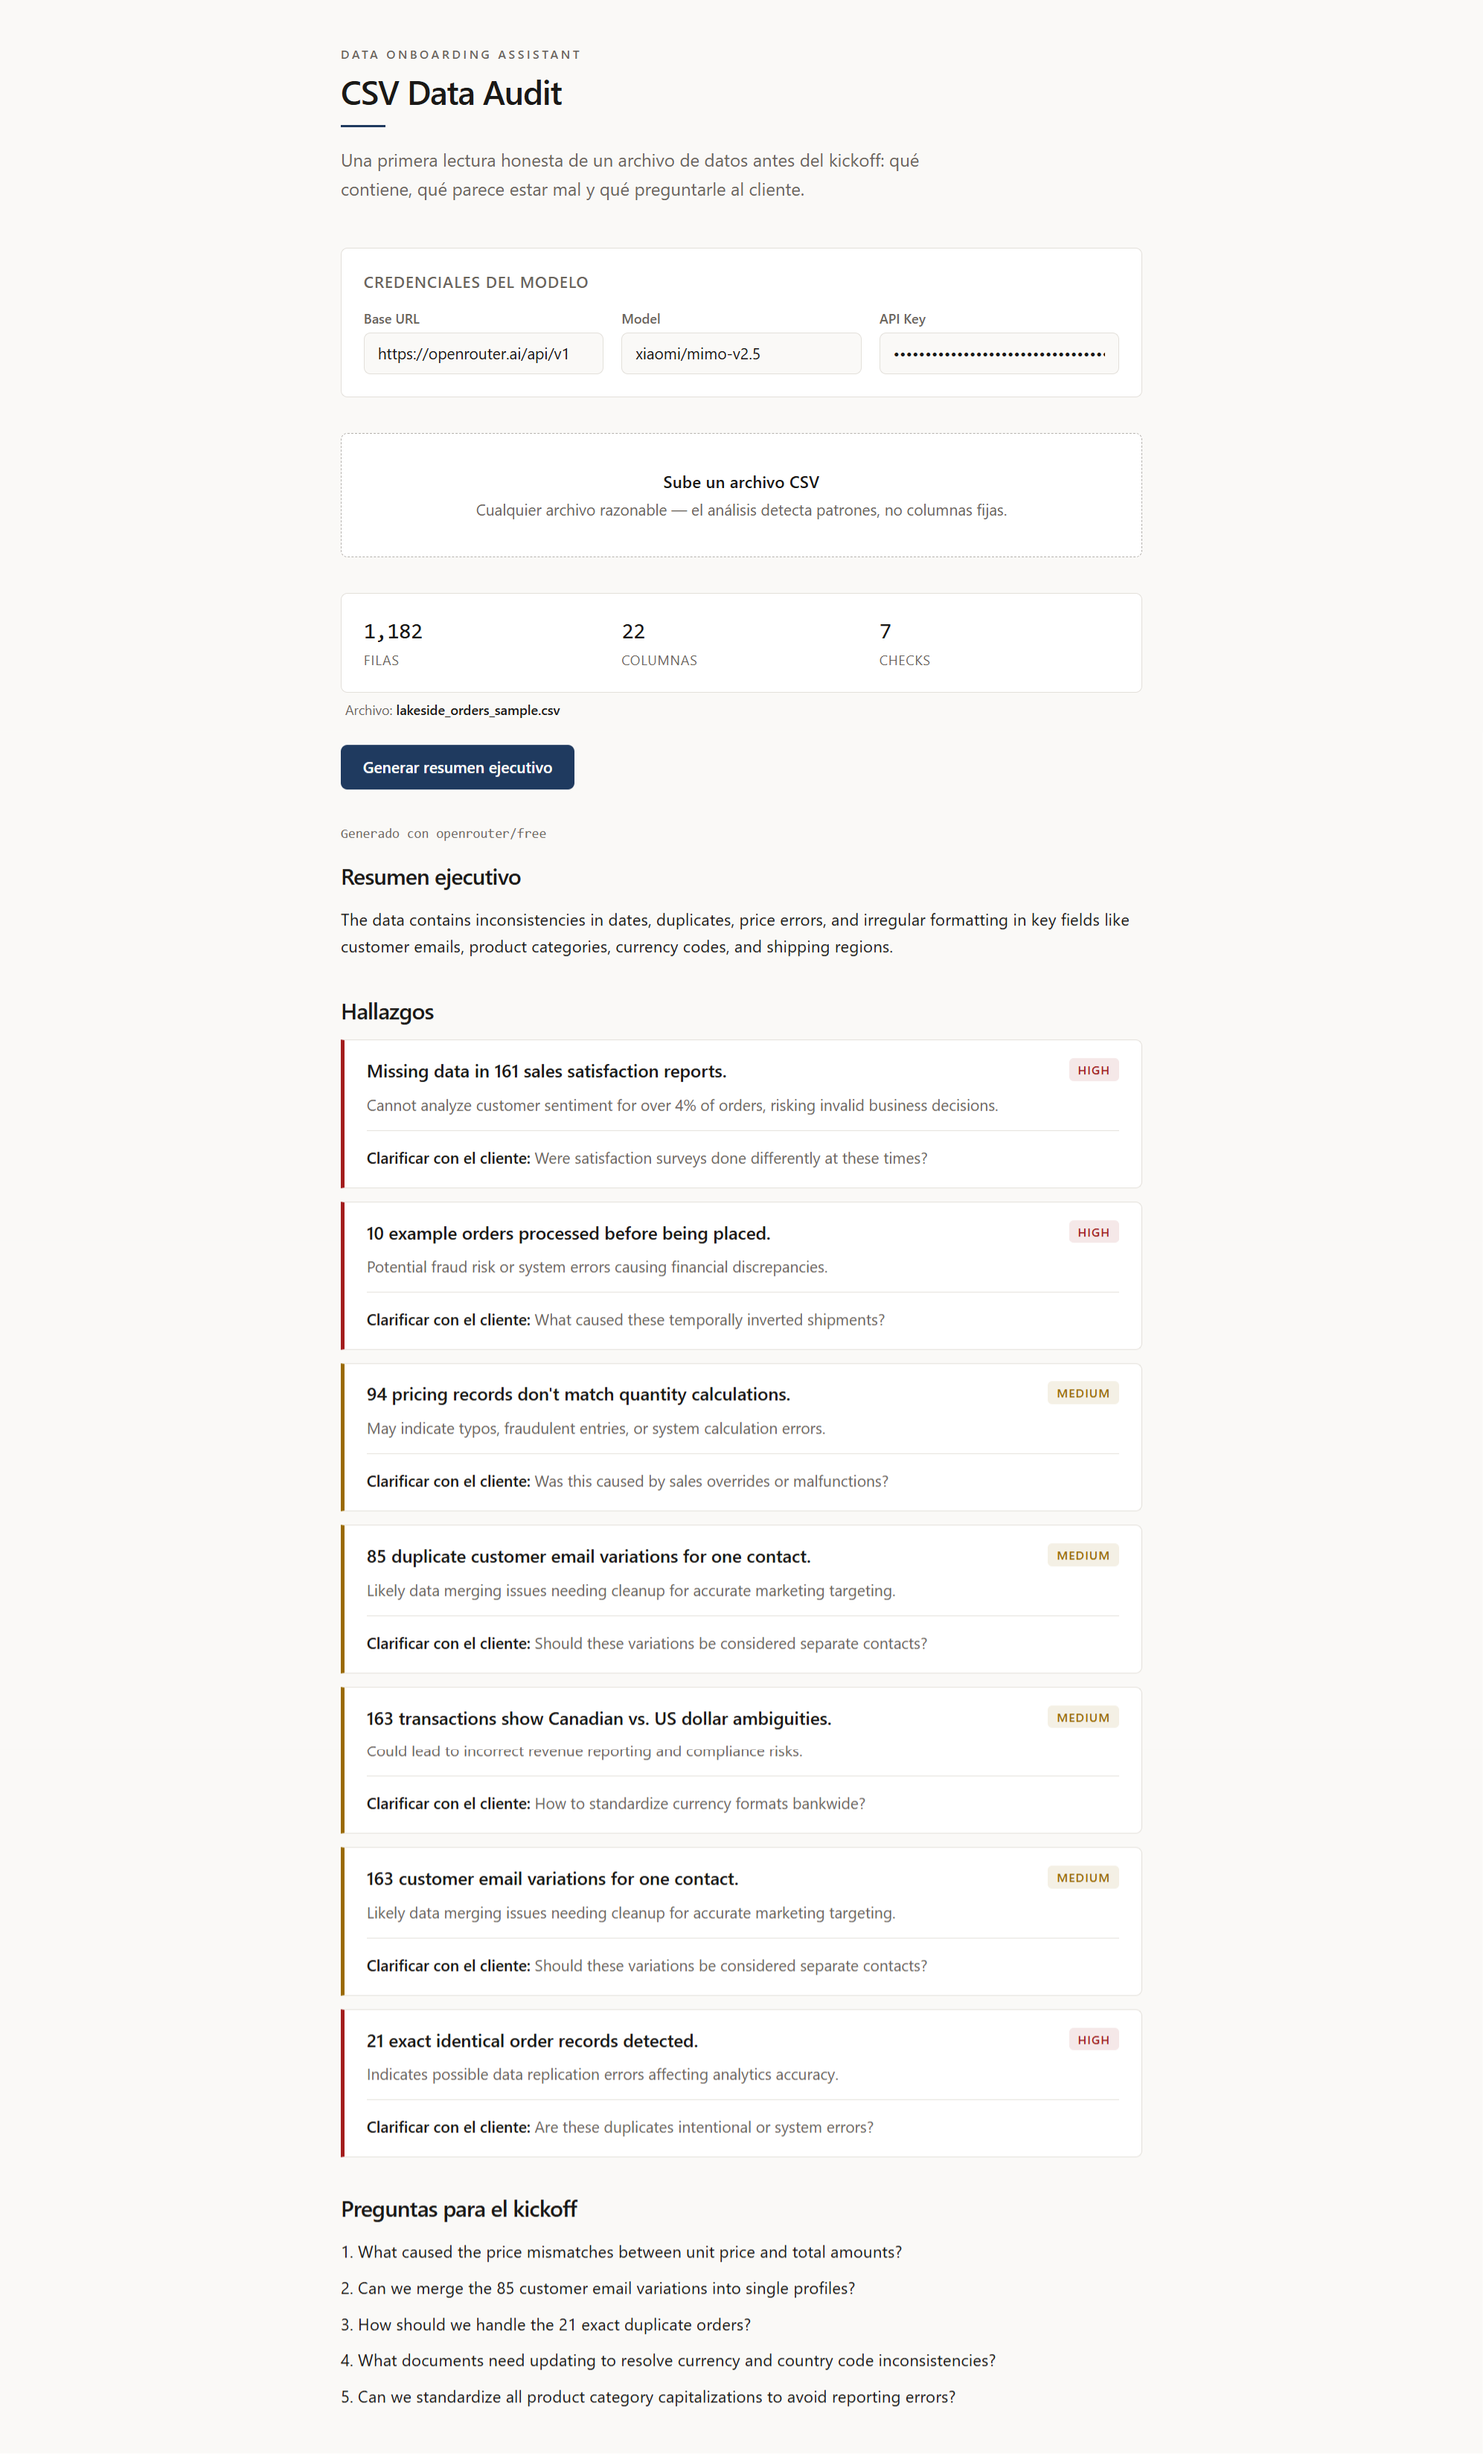
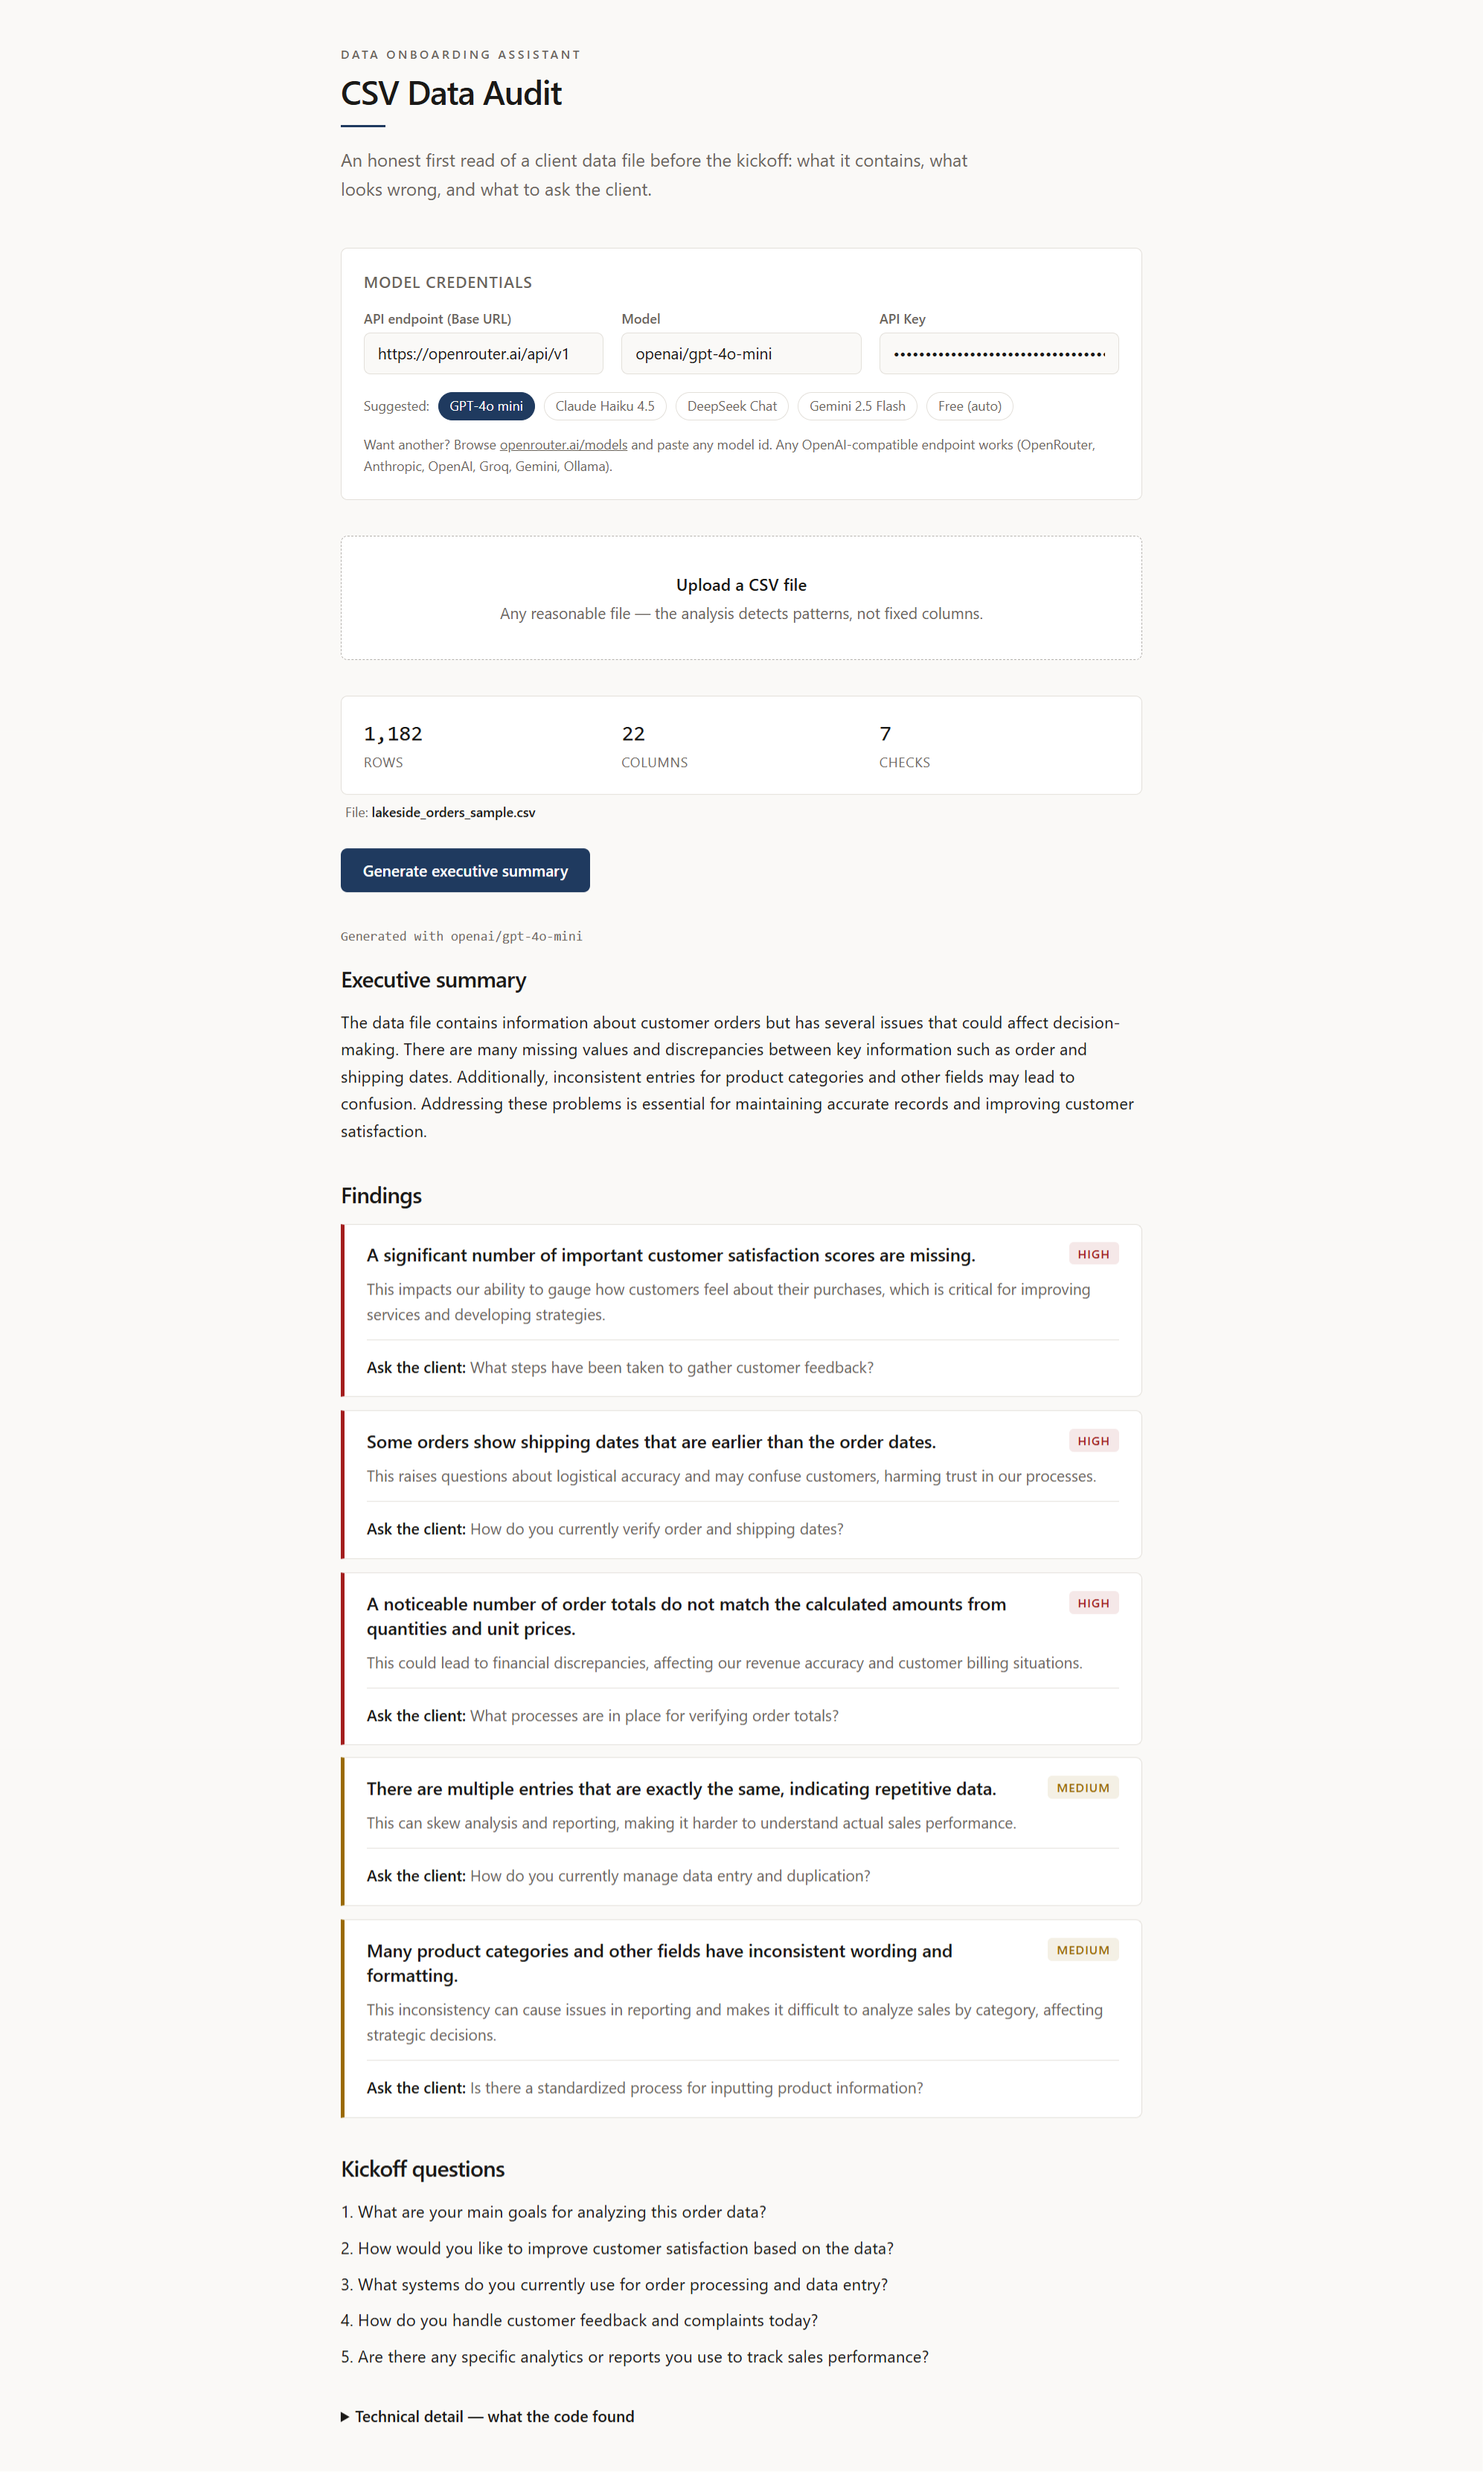
docs: refresh screenshot to current English build; state Node 20+; complete project structure diagram

diff --git a/README.md b/README.md
@@ -25,7 +25,7 @@ npm install
 npm run dev
 ```
 
-Open `http://localhost:5173`. That's it — no build step needed for local use.
+Open `http://localhost:5173`. That's it — no build step needed for local use. Requires **Node 20+** (Vite 8 + React 19).
 
 ## Model credentials
 
@@ -57,11 +57,13 @@ Verified CORS preflights (2026-08-17) — the app runs entirely in the browser, 
 ├── NOTES.md
 ├── .gitignore
 ├── package.json
+├── prueba_keyrus.ipynb   # exploratory pandas notebook (validated each check before JS)
 ├── src/
 │   ├── components/      # FileUpload, SettingsPanel
 │   └── lib/             # analysis.js (engine), llm.js (one call)
+├── scripts/             # probe.mjs — CLI engine verification (node scripts/probe.mjs [file.csv])
 ├── skill/               # SKILL.md — reusable CSV data-quality audit skill
-└── data/                # sample CSV (lakeside_orders_sample.csv)
+└── data/                # lakeside_orders_sample.csv + test_ventas.csv (generic test)
 ```
 
 ## The skill
